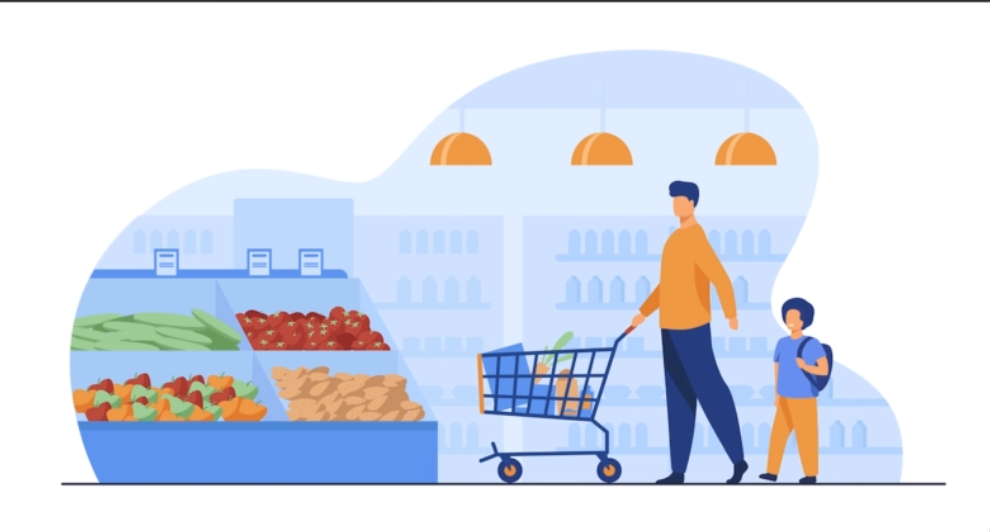
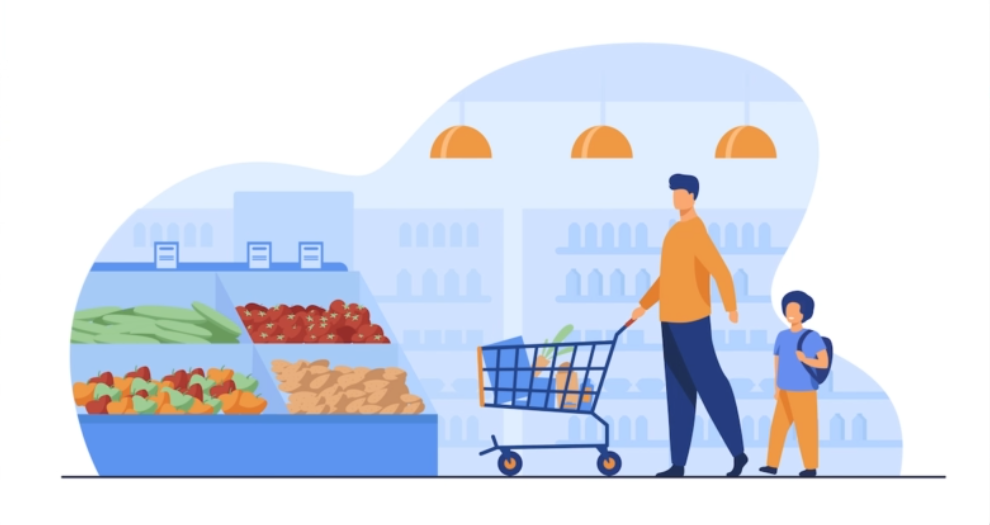
feat: implement onboarding screens
- Add onboarding item data and entity models
- Display onboarding images, titles, and descriptions dynamically
- Add page navigation with a smooth page indicator
- Configure the app to launch on the onboarding page
- Add smooth_page_indicator, flutter_bloc, and equatable dependencies

diff --git a/lib/feature/on_boarding/presentation/page/on_boarding_page.dart b/lib/feature/on_boarding/presentation/page/on_boarding_page.dart
@@ -1,8 +1,27 @@
 import 'package:flutter/material.dart';
+import 'package:shop_app/core/utils/color_palette.dart';
+import 'package:shop_app/feature/on_boarding/data/boarding_items.dart';
 import 'package:shop_app/feature/on_boarding/presentation/page/widget/build_boarding_item.dart';
+import 'package:smooth_page_indicator/smooth_page_indicator.dart';
 
-class OnBoardingPage extends StatelessWidget {
+class OnBoardingPage extends StatefulWidget {
   const OnBoardingPage({super.key});
+
+  @override
+  State<OnBoardingPage> createState() => _OnBoardingPageState();
+}
+
+class _OnBoardingPageState extends State<OnBoardingPage> {
+  final _controller = PageController();
+  int _currentIndex = 0;
+
+  bool get _isLast => _currentIndex == boardingItems.length - 1;
+
+  @override
+  void dispose() {
+    _controller.dispose();
+    super.dispose();
+  }
 
   @override
   Widget build(BuildContext context) {
@@ -14,17 +33,37 @@ class OnBoardingPage extends StatelessWidget {
           children: [
             Expanded(
               child: PageView.builder(
-                itemBuilder: (context, index) => BuildBoardingItem(),
-                itemCount: 3,
+                physics: BouncingScrollPhysics(),
+                controller: _controller,
+                itemCount: boardingItems.length,
+                onPageChanged: (i) => setState(() => _currentIndex = i),
+                itemBuilder: (context, index) =>
+                    BuildBoardingItem(item: boardingItems[index]),
               ),
             ),
-            SizedBox(height: 40),
+            SizedBox(height: 30),
             Row(
               children: [
-                Text('indctor'),
+                SmoothPageIndicator(
+                  controller: _controller,
+                  count: boardingItems.length,
+                  effect: ExpandingDotsEffect(
+                    dotColor: ColorPalette.kBlackColor,
+                    activeDotColor: ColorPalette.kLightRed,
+                    dotHeight: 10,
+                    dotWidth: 10,
+                    expansionFactor: 4,
+                    spacing: 5,
+                  ),
+                ),
                 Spacer(),
                 FloatingActionButton(
-                  onPressed: () {},
+                  onPressed: () {
+                    _controller.nextPage(
+                      duration: Duration(milliseconds: 750),
+                      curve: Curves.fastLinearToSlowEaseIn,
+                    );
+                  },
                   child: Icon(Icons.arrow_forward_ios),
                 ),
               ],

diff --git a/lib/feature/on_boarding/presentation/page/widget/build_boarding_item.dart b/lib/feature/on_boarding/presentation/page/widget/build_boarding_item.dart
@@ -1,23 +1,22 @@
 import 'package:flutter/material.dart';
 import 'package:shop_app/core/utils/styles.dart';
+import 'package:shop_app/feature/on_boarding/data/boarding_items.dart';
 
 class BuildBoardingItem extends StatelessWidget {
-  const BuildBoardingItem({
-    super.key,
-  });
+  final BoardingItem item;
+  const BuildBoardingItem({super.key, required this.item});
 
   @override
   Widget build(BuildContext context) {
     return Column(
       crossAxisAlignment: CrossAxisAlignment.start,
       children: [
-        Expanded(
-          child: Image(image: AssetImage('assets/images/onBoarding.png')),
-        ),
+        Expanded(child: Image.asset(item.image)),
         SizedBox(height: 15),
-        Text('data', style: Styles.styleSemibold24),
+        Text(item.title, style: Styles.styleSemibold24),
         SizedBox(height: 15),
-        Text('screen title', style: Styles.styleBold16),
+        Text(item.body, style: Styles.styleBold16),
+        SizedBox(height: 15),
       ],
     );
   }

diff --git a/lib/feature/on_boarding/data/boarding_items.dart b/lib/feature/on_boarding/data/boarding_items.dart
@@ -1,0 +1,29 @@
+class BoardingItem {
+  final String image;
+  final String title;
+  final String body;
+
+  const BoardingItem({
+    required this.image,
+    required this.title,
+    required this.body,
+  });
+}
+
+const boardingItems = [
+  BoardingItem(
+    image: 'assets/images/onBoarding.png',
+    title: 'Title 1',
+    body: 'Body 1',
+  ),
+  BoardingItem(
+    image: 'assets/images/onBoarding.png',
+    title: 'Title 2',
+    body: 'Body 2',
+  ),
+  BoardingItem(
+    image: 'assets/images/onBoarding.png',
+    title: 'Title 3',
+    body: 'Body 3',
+  ),
+];

diff --git a/lib/feature/on_boarding/domain/entities/boarding_entity.dart b/lib/feature/on_boarding/domain/entities/boarding_entity.dart
@@ -1,0 +1,16 @@
+import 'package:equatable/equatable.dart';
+
+class BoardingEntity extends Equatable {
+  final String image;
+  final String title;
+  final String body;
+
+  const BoardingEntity({
+    required this.image,
+    required this.title,
+    required this.body,
+  });
+
+  @override
+  List<Object?> get props => [image, title, body];
+}

diff --git a/lib/main.dart b/lib/main.dart
@@ -12,6 +12,6 @@ class MyApp extends StatelessWidget {
   // This widget is the root of your application.
   @override
   Widget build(BuildContext context) {
-    return MaterialApp(theme: lightTheme, home: const OnBoardingPage());
+    return MaterialApp(theme: lightTheme, home: OnBoardingPage());
   }
 }
